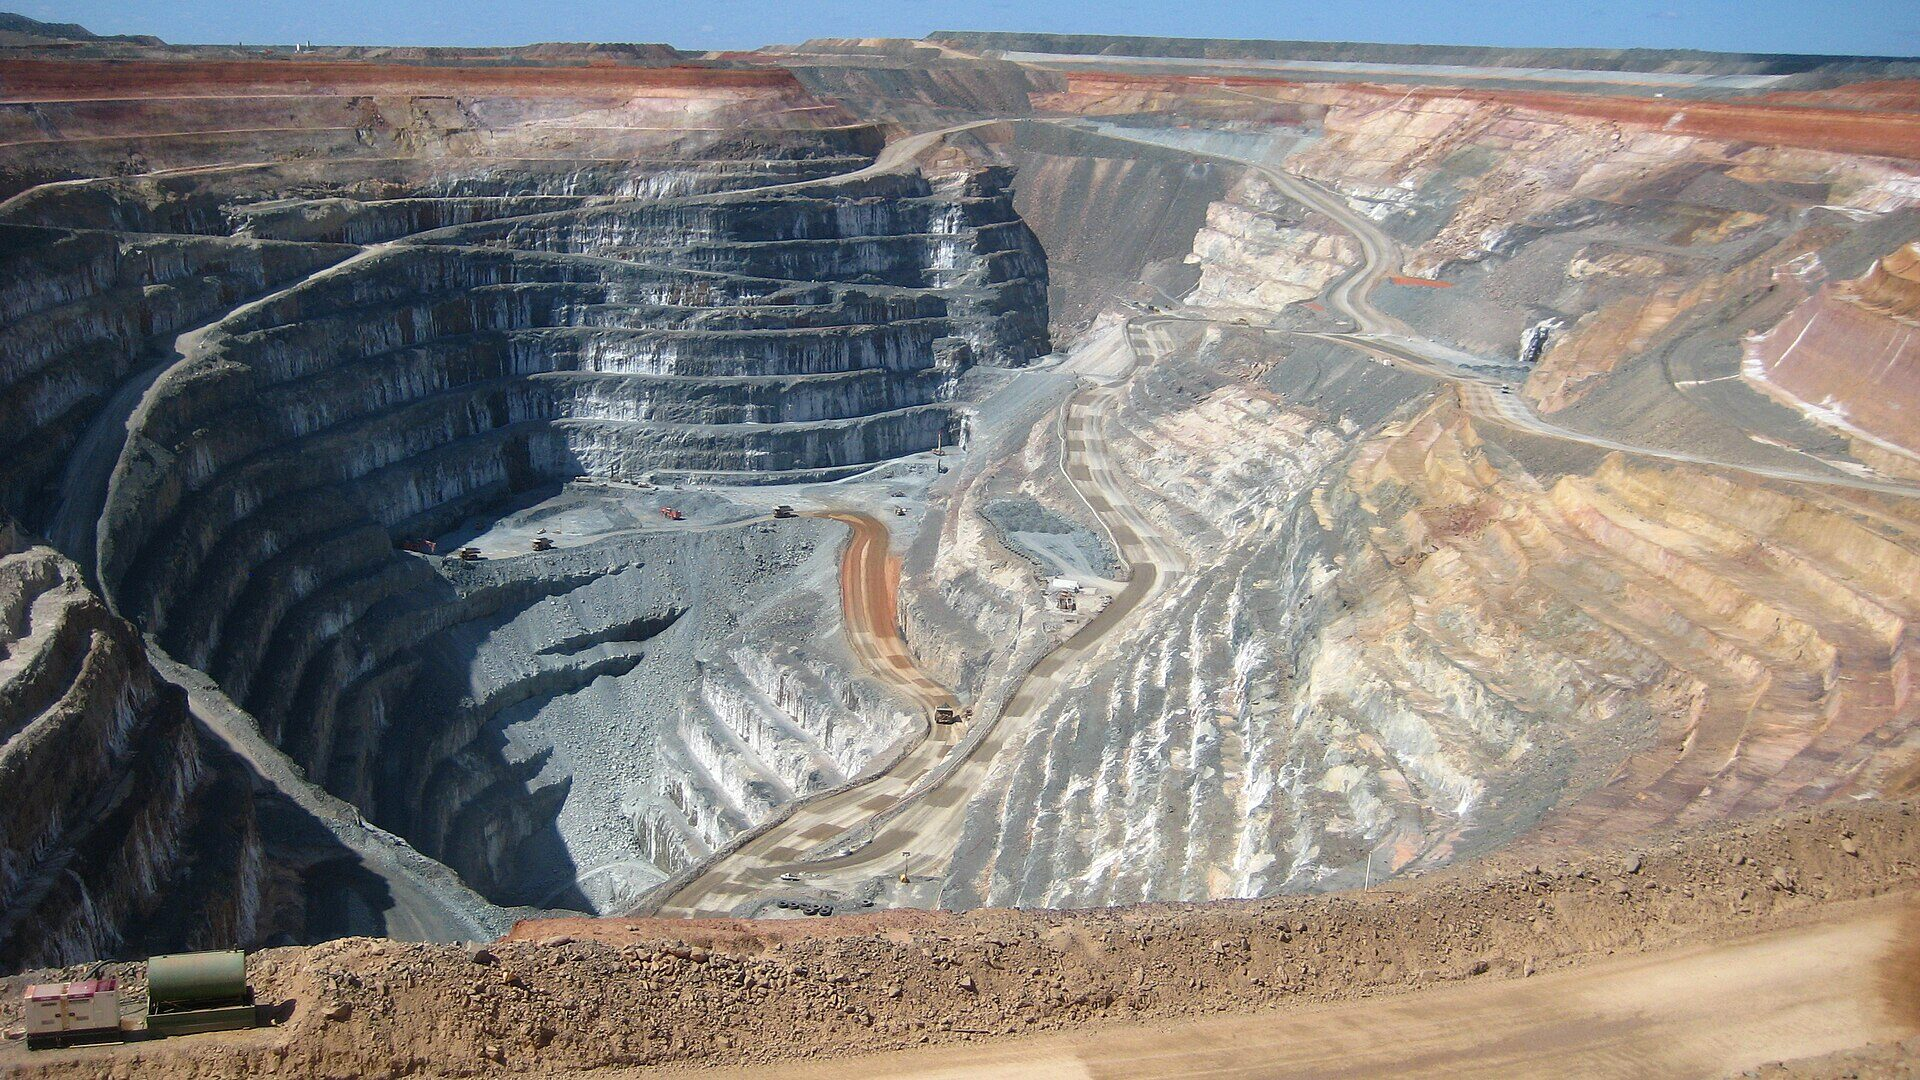
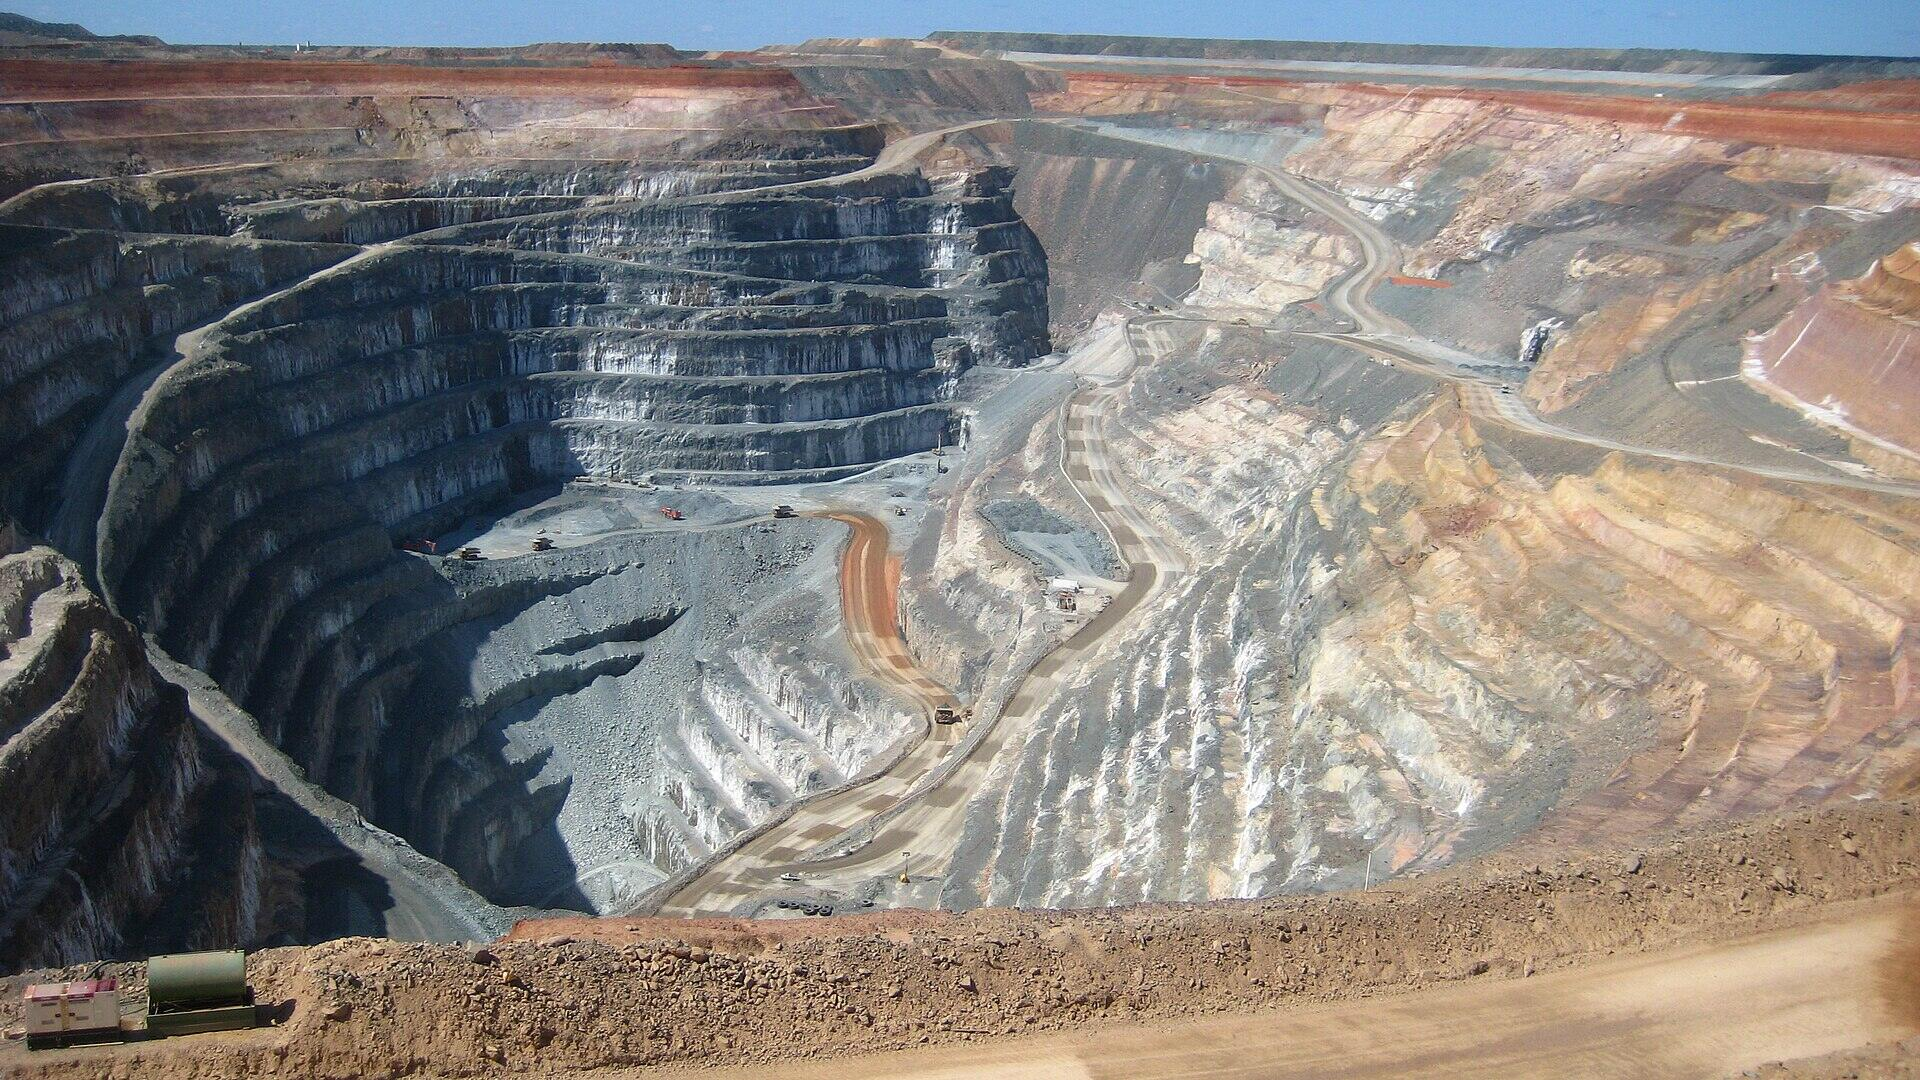
v10.0 — Performance : WebP, preload LCP, Analytics
- Toutes les images de contenu servies en WebP via <picture> (repli JPG).
- Hero (LCP) en background image-set WebP + repli JPG, ré-encodé
  (552→460 Ko JPG / 348 Ko WebP) et préchargé (preload fetchpriority).
- decoding="async" sur les images.
- Script Vercel Web Analytics ajouté (à activer dans le dashboard Vercel).

Changed region(s): [[0.25, 0.8861, 0.5, 0.9472], [0.5, 0.9167, 0.5625, 0.9472]]

diff --git a/index.html b/index.html
@@ -61,6 +61,7 @@
 <link rel="icon" type="image/png" sizes="32x32" href="assets/favicon-32.png">
 <link rel="icon" type="image/png" sizes="16x16" href="assets/favicon-16.png">
 <link rel="apple-touch-icon" href="assets/apple-touch-icon.png">
+<link rel="preload" as="image" href="assets/img/hero.webp" type="image/webp" fetchpriority="high">
 <link rel="preconnect" href="https://fonts.googleapis.com"><link rel="preconnect" href="https://fonts.gstatic.com" crossorigin>
 <link href="https://fonts.googleapis.com/css2?family=Cormorant+Garamond:ital,wght@0,300;0,400;0,500;1,400;1,500&family=Italiana&family=Manrope:wght@300;400;500&display=swap" rel="stylesheet">
 <style>
@@ -211,7 +212,7 @@
 
 /* HERO — reste sombre (photo) */
 .hero{position:relative;min-height:100vh;display:flex;align-items:center;justify-content:flex-start;padding:6rem 4% 5rem;overflow:hidden}
-.hero-img{position:absolute;left:0;right:0;top:-22%;height:144%;background:center/cover no-repeat}
+.hero-img{position:absolute;left:0;right:0;top:-22%;height:144%;background-position:center;background-size:cover;background-repeat:no-repeat;background-image:url(assets/img/hero.jpg);background-image:-webkit-image-set(url(assets/img/hero.webp) type("image/webp"),url(assets/img/hero.jpg) type("image/jpeg"));background-image:image-set(url(assets/img/hero.webp) type("image/webp"),url(assets/img/hero.jpg) type("image/jpeg"))}
 .hero-img::before{content:'';position:absolute;inset:0;background:inherit;animation:kenburns 26s ease-in-out infinite alternate;will-change:transform}
 @keyframes kenburns{from{transform:scale(1.03)}to{transform:scale(1.14)}}
 .hero-img::after{content:'';position:absolute;inset:0;background:linear-gradient(to top,rgba(20,28,24,.92) 0%,rgba(20,28,24,.55) 45%,rgba(20,28,24,.5) 100%),linear-gradient(to right,rgba(20,28,24,.72) 0%,rgba(20,28,24,.3) 50%,rgba(20,28,24,0) 100%)}
@@ -339,7 +340,7 @@ footer .logo{align-self:flex-start}footer .logo-full{height:82px;filter:none}
 
 <!-- HERO — vraie photo de mine à ciel ouvert -->
 <section class="hero" id="hero">
-  <div class="hero-img parallax-bg" style="background-image:url('assets/img/hero.jpg')"></div>
+  <div class="hero-img parallax-bg"></div>
   <div class="hero-inner">
     <p class="hero-tag">Burkina Faso · Intermédiaire aurifère</p>
     <h1>L'<em>or</em> du terrain,<br>la rigueur du <em>marché</em>.</h1>
@@ -361,7 +362,7 @@ footer .logo{align-self:flex-start}footer .logo-full{height:82px;filter:none}
   <div class="wrap">
     <div class="about-grid">
       <div class="about-photo rv-right">
-        <img src="assets/img/about.jpg" alt="Orpailleuse récupérant l'or à la batée" loading="lazy">
+        <picture><source type="image/webp" srcset="assets/img/about.webp"><img src="assets/img/about.jpg" alt="Orpailleuse récupérant l'or à la batée" loading="lazy" decoding="async"></picture>
       </div>
       <div class="about-text rv-left">
         <div class="sec-label">À propos</div>
@@ -392,7 +393,7 @@ footer .logo{align-self:flex-start}footer .logo-full{height:82px;filter:none}
       <article class="svc">
         <div class="svc-img">
           <span class="svc-num">01 · Travaux</span>
-          <img src="assets/img/svc-works.jpg" alt="Excavatrice Caterpillar sur chantier minier" loading="lazy">
+          <picture><source type="image/webp" srcset="assets/img/svc-works.webp"><img src="assets/img/svc-works.jpg" alt="Excavatrice Caterpillar sur chantier minier" loading="lazy" decoding="async"></picture>
         </div>
         <div class="svc-body">
           <h3>Travaux Miniers</h3>
@@ -410,7 +411,7 @@ footer .logo{align-self:flex-start}footer .logo-full{height:82px;filter:none}
       <article class="svc">
         <div class="svc-img">
           <span class="svc-num">02 · Recherche</span>
-          <img src="assets/img/svc-research.jpg" alt="Foreuse d'exploration sur site géologique" loading="lazy">
+          <picture><source type="image/webp" srcset="assets/img/svc-research.webp"><img src="assets/img/svc-research.jpg" alt="Foreuse d'exploration sur site géologique" loading="lazy" decoding="async"></picture>
         </div>
         <div class="svc-body">
           <h3>Recherche &amp; Exploitation</h3>
@@ -428,7 +429,7 @@ footer .logo{align-self:flex-start}footer .logo-full{height:82px;filter:none}
       <article class="svc">
         <div class="svc-img">
           <span class="svc-num">03 · Achat d'or</span>
-          <img src="assets/img/svc-buy.jpg" alt="Lingots d'or — achat et certification" loading="lazy">
+          <picture><source type="image/webp" srcset="assets/img/svc-buy.webp"><img src="assets/img/svc-buy.jpg" alt="Lingots d'or — achat et certification" loading="lazy" decoding="async"></picture>
         </div>
         <div class="svc-body">
           <h3>Service d'Achat d'Or</h3>
@@ -467,14 +468,14 @@ footer .logo{align-self:flex-start}footer .logo-full{height:82px;filter:none}
       <p class="sec-lead rv">Mines, engins, or, orpaillage — un aperçu de notre quotidien au Burkina Faso.</p>
     </div>
     <div class="gal-grid rv-stagger">
-      <div class="gal-item tall"><img src="assets/img/gal-nugget.jpg" alt="Pépite d'or brut" loading="lazy"><div class="gal-cap"><small>Or</small><h4>Pépites brutes</h4></div></div>
-      <div class="gal-item wide"><img src="assets/img/gal-pit.jpg" alt="Mine d'or à ciel ouvert" loading="lazy"><div class="gal-cap"><small>Exploitation</small><h4>Site minier actif</h4></div></div>
-      <div class="gal-item"><img src="assets/img/gal-machinery.jpg" alt="Excavatrice à roue-pelle en surface" loading="lazy"><div class="gal-cap"><small>Engins</small><h4>Machinerie lourde</h4></div></div>
-      <div class="gal-item"><img src="assets/img/svc-buy.jpg" alt="Lingots d'or empilés" loading="lazy"><div class="gal-cap"><small>Achat</small><h4>Or certifié</h4></div></div>
-      <div class="gal-item wide"><img src="assets/img/gal-chegga.jpg" alt="Site d'orpaillage artisanal au Sahel" loading="lazy"><div class="gal-cap"><small>Travaux</small><h4>Chantier minier</h4></div></div>
-      <div class="gal-item tall"><img src="assets/img/gal-panning2.jpg" alt="Orpaillage à la batée, mains" loading="lazy"><div class="gal-cap"><small>Orpaillage</small><h4>À la batée</h4></div></div>
-      <div class="gal-item"><img src="assets/img/gal-ore.jpg" alt="Veine d'or dans le quartz" loading="lazy"><div class="gal-cap"><small>Minerai</small><h4>Or natif</h4></div></div>
-      <div class="gal-item"><img src="assets/img/gal-nugget2.jpg" alt="Pépite d'or d'exception" loading="lazy"><div class="gal-cap"><small>Or</small><h4>Pépite d'exception</h4></div></div>
+      <div class="gal-item tall"><picture><source type="image/webp" srcset="assets/img/gal-nugget.webp"><img src="assets/img/gal-nugget.jpg" alt="Pépite d'or brut" loading="lazy" decoding="async"></picture><div class="gal-cap"><small>Or</small><h4>Pépites brutes</h4></div></div>
+      <div class="gal-item wide"><picture><source type="image/webp" srcset="assets/img/gal-pit.webp"><img src="assets/img/gal-pit.jpg" alt="Mine d'or à ciel ouvert" loading="lazy" decoding="async"></picture><div class="gal-cap"><small>Exploitation</small><h4>Site minier actif</h4></div></div>
+      <div class="gal-item"><picture><source type="image/webp" srcset="assets/img/gal-machinery.webp"><img src="assets/img/gal-machinery.jpg" alt="Excavatrice à roue-pelle en surface" loading="lazy" decoding="async"></picture><div class="gal-cap"><small>Engins</small><h4>Machinerie lourde</h4></div></div>
+      <div class="gal-item"><picture><source type="image/webp" srcset="assets/img/svc-buy.webp"><img src="assets/img/svc-buy.jpg" alt="Lingots d'or empilés" loading="lazy" decoding="async"></picture><div class="gal-cap"><small>Achat</small><h4>Or certifié</h4></div></div>
+      <div class="gal-item wide"><picture><source type="image/webp" srcset="assets/img/gal-chegga.webp"><img src="assets/img/gal-chegga.jpg" alt="Site d'orpaillage artisanal au Sahel" loading="lazy" decoding="async"></picture><div class="gal-cap"><small>Travaux</small><h4>Chantier minier</h4></div></div>
+      <div class="gal-item tall"><picture><source type="image/webp" srcset="assets/img/gal-panning2.webp"><img src="assets/img/gal-panning2.jpg" alt="Orpaillage à la batée, mains" loading="lazy" decoding="async"></picture><div class="gal-cap"><small>Orpaillage</small><h4>À la batée</h4></div></div>
+      <div class="gal-item"><picture><source type="image/webp" srcset="assets/img/gal-ore.webp"><img src="assets/img/gal-ore.jpg" alt="Veine d'or dans le quartz" loading="lazy" decoding="async"></picture><div class="gal-cap"><small>Minerai</small><h4>Or natif</h4></div></div>
+      <div class="gal-item"><picture><source type="image/webp" srcset="assets/img/gal-nugget2.webp"><img src="assets/img/gal-nugget2.jpg" alt="Pépite d'or d'exception" loading="lazy" decoding="async"></picture><div class="gal-cap"><small>Or</small><h4>Pépite d'exception</h4></div></div>
     </div>
   </div>
 </section>
@@ -999,5 +1000,7 @@ if(window.aogSetLang)window.aogSetLang(window.AOG_LANG||'fr');
 
 </script>
 <script>document.getElementById('yr').textContent=new Date().getFullYear()</script>
+<!-- Vercel Web Analytics (activer "Analytics" dans le tableau de bord Vercel) -->
+<script defer src="/_vercel/insights/script.js"></script>
 </body>
 </html>